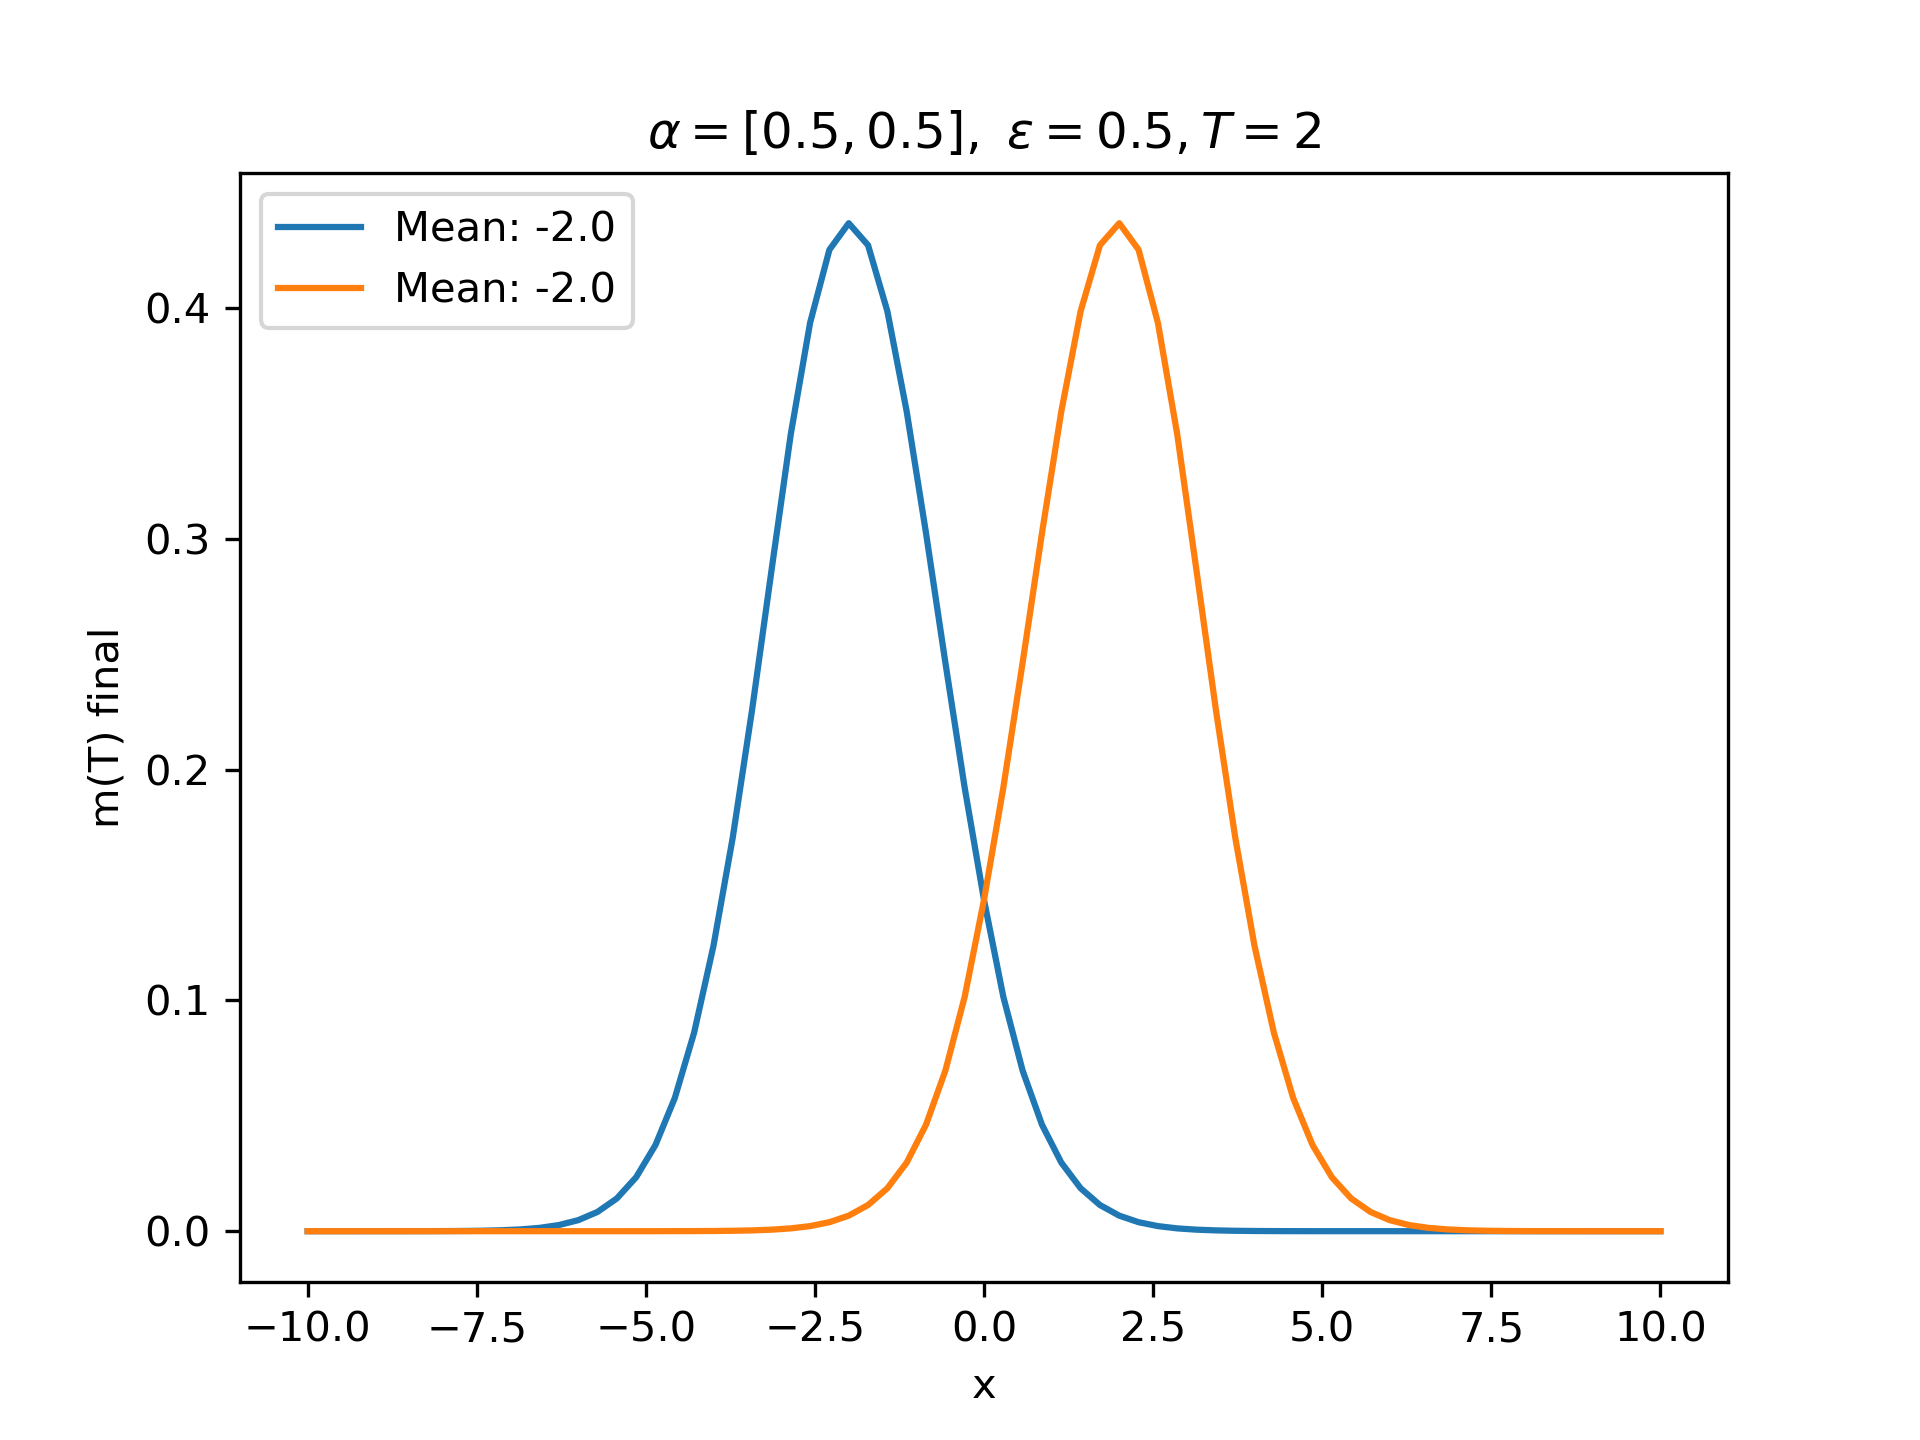
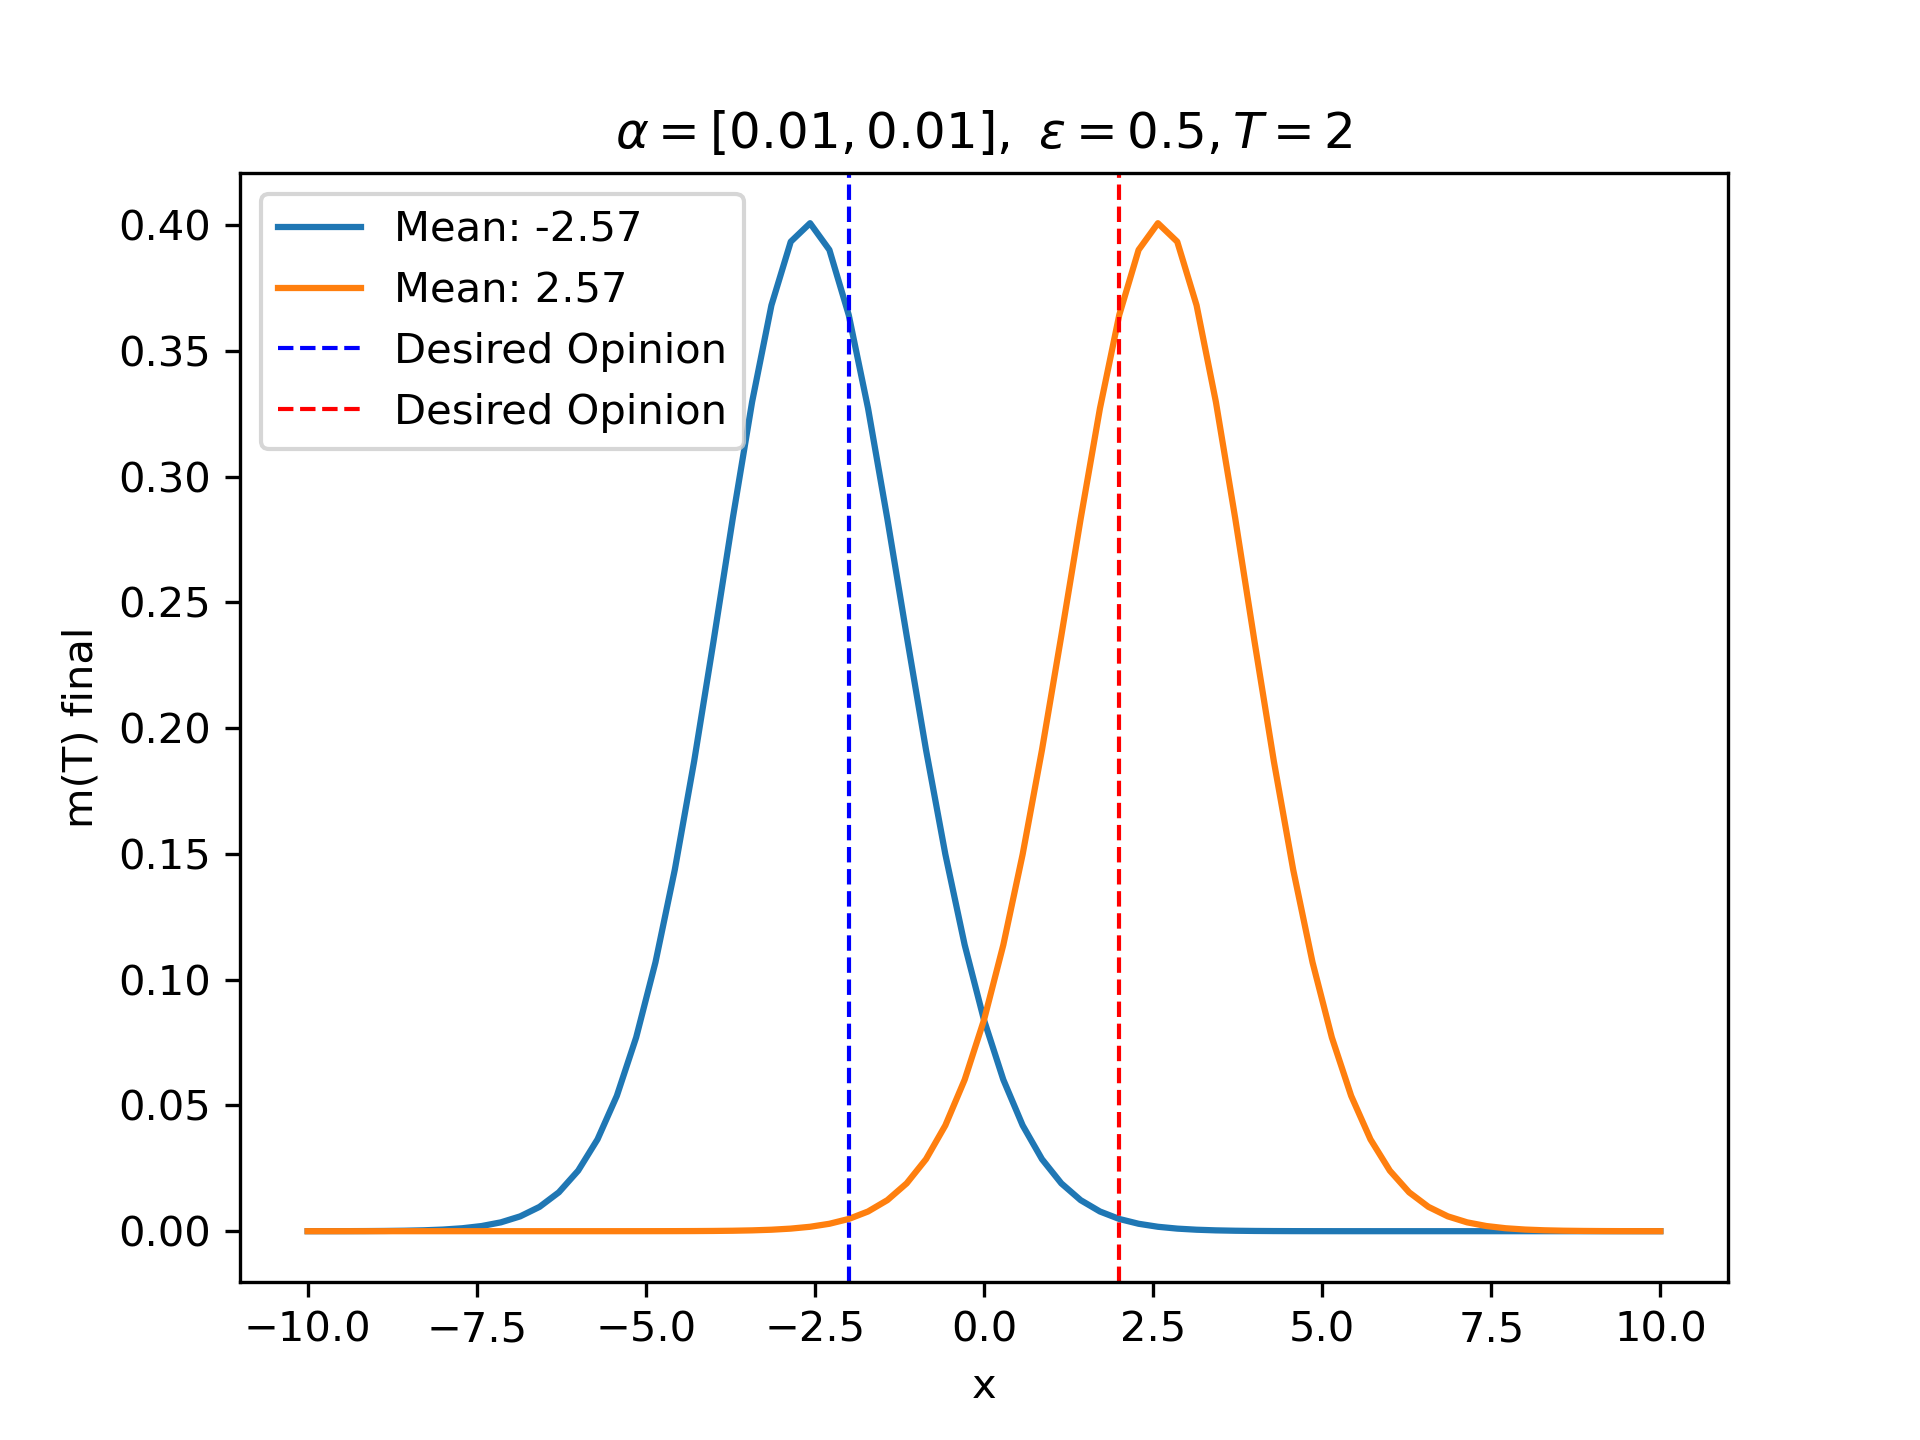
chanes

diff --git a/experiments/two_populaional.py b/experiments/two_populaional.py
@@ -1,3 +1,4 @@
+
 import jax.numpy as jnp
 import numpy as np
 import matplotlib.pyplot as plt
@@ -5,7 +6,7 @@ from jax import jacfwd, vmap
 from jax.scipy.stats import norm, truncnorm
 import munch
 import os
-
+from ott.tools import wassdis_p
 x_d1 = -2
 x_d2 = 2
 os.environ["JAX_TRACEBACK_FILTERING"]="off"
@@ -28,22 +29,31 @@ class TwoPopulationMFG(object):
         self.h = round((xr - xl) / (N-1), 2)
 
     def mu0(self, x, population_index):
-        a, b = -4, 4
+        a, b = -5, 5
+        arr = np.array(x)  # Convert x to a numpy array
+
+        filtered_x = arr[(arr >= a) & (arr <= b)]
+
         if population_index == 0:
             midpoint = -1
             sigma_mu = 1
-            b1 = (a - midpoint)/sigma_mu
-            b2 = (b - midpoint)/sigma_mu
-            mu = truncnorm.pdf(x, a=b1, b=b2, loc=midpoint, scale=sigma_mu)
-
-            return mu
         elif population_index == 1:
             midpoint = 1
             sigma_mu = 1
-            b1 = (a - midpoint) / sigma_mu
-            b2 = (b - midpoint) / sigma_mu
-            mu = truncnorm.pdf(x, a=b1, b=b2, loc=midpoint, scale=sigma_mu)
-            return mu
+        else:
+            raise ValueError("Invalid population_index. Must be 0 or 1.")
+
+        # Calculate truncation bounds in standardized form
+        b1 = (a - midpoint) / sigma_mu
+        b2 = (b - midpoint) / sigma_mu
+
+        # Compute the PDF for filtered values
+        pdf_values = truncnorm.pdf(filtered_x, a=b1, b=b2, loc=midpoint, scale=sigma_mu)
+
+        mu = np.zeros_like(arr)
+        mu[(arr >= a) & (arr <= b)] = pdf_values
+
+        return mu
 
     def uT(self, x, population_index):
         if population_index == 0:
@@ -91,20 +101,18 @@ class TwoPopulationMFG(object):
         return U, M
 
     def wasserstein_1(self, x, y):
-        x = jnp.maximum(x, 0)
-        y = jnp.maximum(y, 0)
+        x = x / jnp.sum(x*self.h)
+        y = y / jnp.sum(y*self.h)
+        cdf_x = jnp.cumsum(x)*self.h
+        cdf_y = jnp.cumsum(y)*self.h
 
-        cdf_x = jnp.cumsum(x) * self.h
-        cdf_y = jnp.cumsum(y) * self.h
-
-        w1_distance = jnp.sum(jnp.abs(cdf_x - cdf_y))
+        w1_distance = jnp.sum(jnp.abs(cdf_x - cdf_y)) * self.h
 
         return w1_distance
 
     def K_d(self, x, y, sigma):
         w_p = self.wasserstein_1(x, y)
-
-        kernel_values = jnp.where(w_p <= sigma, jnp.exp(-w_p), 0)
+        kernel_values = jnp.where(w_p <= sigma, 1, 0)
 
         return kernel_values
 
@@ -114,19 +122,16 @@ class TwoPopulationMFG(object):
         # Calculate the interaction term
         interaction_term = jnp.zeros_like(x)
         for r, lambda_r in enumerate(self.lambdas):
-            mu_r = mu[r]
-            K_d_value = self.K_d(mu[population_index], mu_r, sigma_k)
+            mu_r = self.dens[r]
+            mu_k = self.dens[population_index]
+            K_d_value = self.K_d(mu_k, mu_r, sigma_k)
             # K_d_value = 0
-            psi_values = vmap(lambda y: self.psi(x, y, lambda_r, mu[population_index], mu_r, sigma_k) * y * mu_r)(self.x_grid)
+            psi_values = vmap(lambda y: self.psi(x, y, lambda_r, mu_k, mu_r, sigma_k) * y * mu_r)(self.x_grid)
 
-
-            # Approximate the integral as the sum of areas of rectangles
             integral_approximation = jnp.sum(psi_values) * self.h
             interaction_term += lambda_r  * integral_approximation * K_d_value
 
-        # Calculate G_M
         G_M_value = alpha_k * x - alpha_k * interaction_term
-        # G_M_value = alpha_k * interaction_term
 
         return G_M_value
 
@@ -253,8 +258,15 @@ class TwoPopulationMFG(object):
 
 
     def hjb_sys_vec(self, Uvec, Mvec, idx):
-        U, M = self.prolong(Uvec, Mvec, idx)
-        return self.hjb_sys(U, M, idx).flatten()
+        U1, M1 = self.prolong(Uvec, Mvec[0], idx)
+        U2, M2 = self.prolong(Uvec, Mvec[1], idx)
+        self.M1 = M1
+        self.M2 = M2
+        self.dens = [M1, M2]
+        if idx == 0:
+            return self.hjb_sys(U1, M1, idx).flatten()
+        if idx == 1:
+            return self.hjb_sys(U2, M2, idx).flatten()
 
     def fp_sys_vec(self, Mvec, Uvec, idx):
         U, M = self.prolong(Uvec, Mvec, idx)
@@ -272,8 +284,9 @@ class TwoPopulationMFG(object):
         iter_num = 0
 
         while error > tol and iter_num < epoch:
-            new_U1 = self.solve_hjb(U1, M1, hjb_lr, epoch=hjb_epoch, idx=0)
-            new_U2 = self.solve_hjb(U2, M2, hjb_lr, epoch=hjb_epoch, idx=1)
+
+            new_U1 = self.solve_hjb(U1, [M1, M2], hjb_lr, epoch=hjb_epoch, idx=0)
+            new_U2 = self.solve_hjb(U2, [M1, M2], hjb_lr, epoch=hjb_epoch, idx=1)
             new_M1 = self.solve_fp(M1, new_U1, 0)
             new_M2 = self.solve_fp(M2, new_U2, 1)
 
@@ -300,14 +313,14 @@ cfg = munch.munchify({
     'xr': 7,
     'N' : 71,
     'nu': 1,
-    'alphas': [0.5, 0.5],
-    'sigmas': [1, 1],
+    'alphas': [0.01, 0.01],
+    'sigmas': [1e-7, 1e-7],
     'lambdas': [0.5, 0.5],
     'eps': 0.5,
     'hjb_epoch': 100,
-    'hjb_lr': 1,
+    'hjb_lr': 0.5,
     'epoch': 50,
-    'lr': 1,
+    'lr': 0.5,
     'tol': 10 ** (-5),
 })
 
@@ -322,8 +335,8 @@ TT, XX = jnp.meshgrid(TT, XX)
 # U, M = solver.solve_mfg(cfg.lr, cfg.tol, cfg.epoch)
 U1, M1, U2, M2 = solver.solve(cfg.tol, cfg.epoch, cfg.hjb_lr, cfg.hjb_epoch)
 
-# Assuming cfg, U1, U2, M1, M2, x_d1, and x_d2 are already defined
-TT = np.linspace(0, cfg.T, cfg.Nt + 1)
+ # Assuming cfg, U1, U2, M1, M2, x_d1, and x_d2 are already defined
+TT = np.linspace(0, cfg.T, cfg.Nt)
 XX = np.linspace(-10, 10, cfg.N)
 max_idx1 = np.argmax(M1[-1, :]).item()
 max_init1= np.argmax(M1[0, :]).item()
@@ -348,8 +361,8 @@ plt.ylabel('u(T)')
 plt.legend()
 plt.show()
 
-plt.plot(XX, M1[0, :], label=f'Mean: {init_mean1}')  # More descriptive name for M1(T)
-plt.plot(XX, M2[0, :], label=f'Mean: {init_mean2}')  # More descriptive name for M2(T)
+plt.plot(XX, M1[0, :], label=f'Mean: {round(init_mean1, 2)}')  # More descriptive name for M1(T)
+plt.plot(XX, M2[0, :], label=f'Mean: {round(init_mean2, 2)}')  # More descriptive name for M2(T)
 plt.xlabel('x')
 plt.ylabel('m(T)')
 plt.title(r"$\alpha=" +f"{cfg.alphas}" +r",\ \varepsilon=" +f"{cfg.eps}, T={cfg.T}$")
@@ -359,13 +372,16 @@ plt.show()
 
 # Final distribution for both populations with updated legends
 plt.figure()
-plt.plot(XX, M1[-1, :], label=f'Mean: {final_mean1}')  # More descriptive name for M1(T)
-plt.plot(XX, M2[-1, :], label=f'Mean: {final_mean1}')  # More descriptive name for M2(T)
-# plt.axvline(x=x_d1, color='Blue', linestyle='--', linewidth=1, label=r'Desired Opinion $x_{d1}=$' + f'{x_d1}')  # LaTeX for subscript
-# plt.axvline(x=x_d2, color='Red', linestyle='--', linewidth=1, label=r'Desired Opinion $x_{d2}=$' + f'{x_d2}')  # LaTeX for subscript
+plt.plot(XX, M1[-1, :], label=f'Mean: {round(final_mean1, 2)}')  # More descriptive name for M1(T)
+plt.plot(XX, M2[-1, :], label=f'Mean: {round(final_mean2, 2)}')  # More descriptive name for M2(T)
+plt.axvline(x=x_d1, color='Blue', linestyle='--', linewidth=1, label=r'Desired Opinion')  # LaTeX for subscript
+plt.axvline(x=x_d2, color='Red', linestyle='--', linewidth=1, label=r'Desired Opinion')  # LaTeX for subscript
 plt.xlabel('x')
 plt.ylabel('m(T) final')
 plt.title(r"$\alpha=" +f"{cfg.alphas}" +r",\ \varepsilon=" +f"{cfg.eps}, T={cfg.T}$")
 plt.legend(loc='upper left')  # Display the legend with subscript notation
 plt.savefig('Final_Distribution.png', format='png', dpi=300)
 plt.show()
+
+
+

diff --git a/experiments/two_pt.py b/experiments/two_pt.py
@@ -1,0 +1,121 @@
+import torch
+import numpy as np
+import os
+import munch
+
+x_d1 = -2
+x_d2 = 2
+os.environ["PYTORCH_JIT"] = "off"
+
+class TwoPopulationMFG:
+    def __init__(self, T, Nt, xl, xr, N, nu, alphas, sigmas, lambdas, eps):
+        self.T = T
+        self.Nt = Nt
+        self.xl = xl
+        self.xr = xr
+        self.N = N
+        self.nu = nu
+        self.alphas = alphas
+        self.sigmas = sigmas
+        self.lambdas = lambdas
+        self.dt = T / (Nt - 1)
+        self.x_grid = torch.linspace(xl, xr, N)
+        self.t_grid = torch.linspace(0, T, Nt)
+        self.eps = eps
+        self.h = round((xr - xl) / (N - 1), 2)
+
+    def mu0(self, x, population_index):
+        a, b = -6, 6
+        filtered_x = x[(x >= a) & (x <= b)]
+        midpoint = -1 if population_index == 0 else 1
+        sigma_mu = 1
+        b1 = (a - midpoint) / sigma_mu
+        b2 = (b - midpoint) / sigma_mu
+
+        pdf_values = torch.distributions.Normal(midpoint, sigma_mu).log_prob(filtered_x).exp()
+        mu = torch.zeros_like(x)
+        mu[(x >= a) & (x <= b)] = pdf_values
+        return mu
+
+    def uT(self, x, population_index):
+        target = x_d1 if population_index == 0 else x_d2
+        return (x - target) ** 2
+
+    def local_kernel(self, x, y):
+        dist = torch.abs(x - y)
+        return torch.exp(1 - self.eps ** 2 / (1e-15 + self.eps ** 2 - dist ** 2))
+
+    def prolong(self, Uvec, Mvec, idx):
+        Umtx = Uvec.view(self.Nt, self.N)
+        Mmtx = Mvec.view(self.Nt, self.N)
+        U = torch.zeros(self.Nt + 1, self.N)
+        M = torch.zeros(self.Nt + 1, self.N)
+        U[:-1, :] = Umtx
+        M[1:, :] = Mmtx
+        M[0, :] = self.mu0(self.x_grid, idx)
+        U[-1, :] = torch.tensor([self.uT(x, idx) for x in self.x_grid])
+        return U, M
+
+    def g(self, x, q1, q2, m, idx):
+        p1 = torch.minimum(q1, torch.tensor(0.0))
+        p2 = torch.maximum(q2, torch.tensor(0.0))
+        g_m = self.G_m(x, m, idx)
+        b1 = torch.minimum(g_m, torch.tensor(0.0))
+        b2 = torch.maximum(g_m, torch.tensor(0.0))
+        return (p1 ** 2) / 2 + (p2 ** 2) / 2 + b1 * q1 + b2 * q2
+
+    def hamilton(self, U, M, idx):
+        dUR = (torch.roll(U, shifts=-1, dims=1) - U) / self.h
+        dUL = (U - torch.roll(U, shifts=1, dims=1)) / self.h
+        Hamiltonian = torch.stack([self.g(x, q1, q2, M, idx) for x, q1, q2 in zip(self.x_grid, dUR.T, dUL.T)], dim=0)
+        return Hamiltonian
+
+    def solve(self, tol=1e-6, epoch=100, hjb_lr=1, hjb_epoch=100):
+        U1 = torch.zeros((self.Nt, self.N)).flatten()
+        U2 = torch.zeros((self.Nt, self.N)).flatten()
+        M1 = torch.zeros((self.Nt, self.N)).flatten()
+        M2 = torch.zeros((self.Nt, self.N)).flatten()
+        error = 1
+        iter_num = 0
+
+        while error > tol and iter_num < epoch:
+            # Placeholder functions for HJB and FP solvers
+            new_U1 = U1  # Update logic for HJB solver
+            new_U2 = U2
+            new_M1 = M1  # Update logic for FP solver
+            new_M2 = M2
+
+            U_err = torch.sum((new_U1 - U1) ** 2) + torch.sum((new_U2 - U2) ** 2)
+            M_err = torch.sum((new_M1 - M1) ** 2) + torch.sum((new_M2 - M2) ** 2)
+            error = U_err + M_err
+            print(f"MFG error: {error.item()}")
+
+            U1, U2, M1, M2 = new_U1, new_U2, new_M1, new_M2
+            iter_num += 1
+            print(f"Iteration: {iter_num}")
+
+        U1, M1 = self.prolong(U1, M1, 0)
+        U2, M2 = self.prolong(U2, M2, 1)
+        return U1, M1, U2, M2
+
+
+cfg = munch.munchify({
+    'T': 2,
+    'Nt': 21,
+    'xl': -7,
+    'xr': 7,
+    'N': 71,
+    'nu': 1,
+    'alphas': [0.5, 0.5],
+    'sigmas': [0.01, 0.01],
+    'lambdas': [0.5, 0.5],
+    'eps': 0.5,
+    'hjb_epoch': 100,
+    'hjb_lr': 0.5,
+    'epoch': 50,
+    'lr': 0.5,
+    'tol': 1e-5,
+})
+
+solver = TwoPopulationMFG(cfg.T, cfg.Nt, cfg.xl, cfg.xr, cfg.N, cfg.nu, cfg.alphas, cfg.sigmas, cfg.lambdas, cfg.eps)
+U1, M1, U2, M2 = solver.solve(cfg.tol, cfg.epoch, cfg.hjb_lr, cfg.hjb_epoch)
